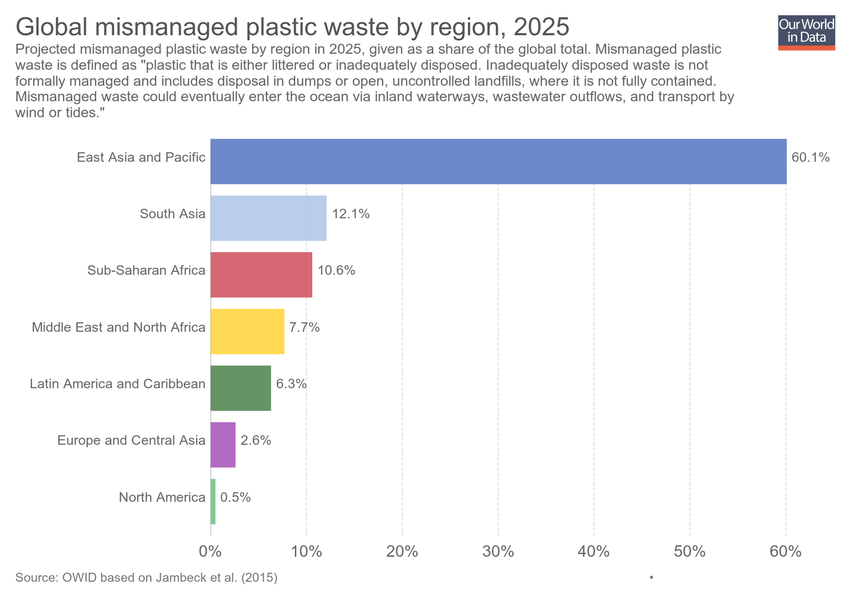
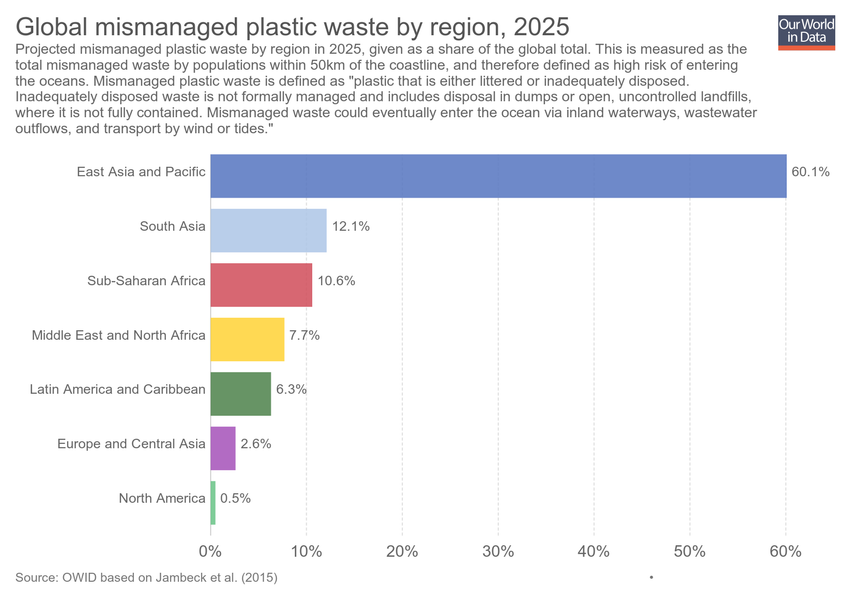
Updating chart mismanaged-plastic-waste-by-region-2025

diff --git a/grapher/mismanaged-plastic-waste-by-region-2025.html b/grapher/mismanaged-plastic-waste-by-region-2025.html
@@ -1,4 +1,4 @@
-<!doctype html><html><head><meta name="viewport" content="width=device-width, initial-scale=1" /><title>Global mismanaged plastic waste by region, 2025 - Our World in Data</title><meta name="description" content="Projected mismanaged plastic waste by region in 2025, given as a share of the global total. Mismanaged plastic waste is defined as &quot;plastic that is either littered or inadequately disposed. Inadequately disposed waste is not formally managed and includes disposal in dumps or open, uncontrolled landfills, where it is not fully contained. Mismanaged waste could eventually enter the ocean via inland waterways, wastewater outflows, and transport by wind or tides.&quot;" /><link rel="canonical" href="https://ourworldindata.org/grapher/mismanaged-plastic-waste-by-region-2025" /><meta property="fb:app_id" content="1149943818390250" /><meta property="og:url" content="https://ourworldindata.org/grapher/mismanaged-plastic-waste-by-region-2025" /><meta property="og:title" content="Global mismanaged plastic waste by region, 2025" /><meta property="og:description" content="Projected mismanaged plastic waste by region in 2025, given as a share of the global total. Mismanaged plastic waste is defined as &quot;plastic that is either littered or inadequately disposed. Inadequately disposed waste is not formally managed and includes disposal in dumps or open, uncontrolled landfills, where it is not fully contained. Mismanaged waste could eventually enter the ocean via inland waterways, wastewater outflows, and transport by wind or tides.&quot;" /><meta property="og:image" content="https://ourworldindata.org/grapher/exports/mismanaged-plastic-waste-by-region-2025.png?v=2" /><meta property="og:image:width" content="850" /><meta property="og:image:height" content="600" /><meta property="og:site_name" content="Our World in Data" /><meta name="twitter:card" content="summary_large_image" /><meta name="twitter:site" content="@OurWorldInData" /><meta name="twitter:creator" content="@OurWorldInData" /><meta name="twitter:title" content="Global mismanaged plastic waste by region, 2025" /><meta name="twitter:description" content="Projected mismanaged plastic waste by region in 2025, given as a share of the global total. Mismanaged plastic waste is defined as &quot;plastic that is either littered or inadequately disposed. Inadequately disposed waste is not formally managed and includes disposal in dumps or open, uncontrolled landfills, where it is not fully contained. Mismanaged waste could eventually enter the ocean via inland waterways, wastewater outflows, and transport by wind or tides.&quot;" /><meta name="twitter:image" content="https://ourworldindata.org/grapher/exports/mismanaged-plastic-waste-by-region-2025.png?v=2" /><style>
+<!doctype html><html><head><meta name="viewport" content="width=device-width, initial-scale=1" /><title>Global mismanaged plastic waste by region, 2025 - Our World in Data</title><meta name="description" content="Projected mismanaged plastic waste by region in 2025, given as a share of the global total. This is measured as the total mismanaged waste by populations within 50km of the coastline, and therefore defined as high risk of entering the oceans. Mismanaged plastic waste is defined as &quot;plastic that is either littered or inadequately disposed. Inadequately disposed waste is not formally managed and includes disposal in dumps or open, uncontrolled landfills, where it is not fully contained. Mismanaged waste could eventually enter the ocean via inland waterways, wastewater outflows, and transport by wind or tides.&quot;" /><link rel="canonical" href="https://ourworldindata.org/grapher/mismanaged-plastic-waste-by-region-2025" /><meta property="fb:app_id" content="1149943818390250" /><meta property="og:url" content="https://ourworldindata.org/grapher/mismanaged-plastic-waste-by-region-2025" /><meta property="og:title" content="Global mismanaged plastic waste by region, 2025" /><meta property="og:description" content="Projected mismanaged plastic waste by region in 2025, given as a share of the global total. This is measured as the total mismanaged waste by populations within 50km of the coastline, and therefore defined as high risk of entering the oceans. Mismanaged plastic waste is defined as &quot;plastic that is either littered or inadequately disposed. Inadequately disposed waste is not formally managed and includes disposal in dumps or open, uncontrolled landfills, where it is not fully contained. Mismanaged waste could eventually enter the ocean via inland waterways, wastewater outflows, and transport by wind or tides.&quot;" /><meta property="og:image" content="https://ourworldindata.org/grapher/exports/mismanaged-plastic-waste-by-region-2025.png?v=3" /><meta property="og:image:width" content="850" /><meta property="og:image:height" content="600" /><meta property="og:site_name" content="Our World in Data" /><meta name="twitter:card" content="summary_large_image" /><meta name="twitter:site" content="@OurWorldInData" /><meta name="twitter:creator" content="@OurWorldInData" /><meta name="twitter:title" content="Global mismanaged plastic waste by region, 2025" /><meta name="twitter:description" content="Projected mismanaged plastic waste by region in 2025, given as a share of the global total. This is measured as the total mismanaged waste by populations within 50km of the coastline, and therefore defined as high risk of entering the oceans. Mismanaged plastic waste is defined as &quot;plastic that is either littered or inadequately disposed. Inadequately disposed waste is not formally managed and includes disposal in dumps or open, uncontrolled landfills, where it is not fully contained. Mismanaged waste could eventually enter the ocean via inland waterways, wastewater outflows, and transport by wind or tides.&quot;" /><meta name="twitter:image" content="https://ourworldindata.org/grapher/exports/mismanaged-plastic-waste-by-region-2025.png?v=3" /><style>
         html, body {
             height: 100%;
             margin: 0;
@@ -20,8 +20,8 @@
         }
     </style><noscript><style>
                     figure { display: none !important; }
-                </style></noscript><link rel="stylesheet" href="https://ourworldindata.org/grapher/assets/commons.bundle.7bc7a3a90f15cac09df5.css" /><link rel="preload" href="/grapher/data/variables/97671.json?v=2" as="fetch" crossorigin /></head><body class="singleChart"><figure data-grapher-src="/grapher/mismanaged-plastic-waste-by-region-2025"></figure><noscript id="fallback"><img src="/grapher/exports/mismanaged-plastic-waste-by-region-2025.svg" /><p>Interactive visualization requires JavaScript</p></noscript><script src="https://cdn.polyfill.io/v2/polyfill.min.js?features=es6,fetch"></script><script src="https://ourworldindata.org/grapher/assets/commons.bundle.7bc7a3a90f15cac09df5.js"></script><script src="https://ourworldindata.org/grapher/assets/charts.bundle.7bc7a3a90f15cac09df5.js"></script><script>
-        var jsonConfig = {"id":2877,"map":{"projection":"World","colorSchemeLabels":[],"colorSchemeValues":[],"customNumericColors":[],"customCategoryColors":{},"customCategoryLabels":{},"customHiddenCategories":{}},"tab":"chart","slug":"mismanaged-plastic-waste-by-region-2025","type":"DiscreteBar","title":"Global mismanaged plastic waste by region, 2025","xAxis":{"scaleType":"linear"},"yAxis":{"min":0,"scaleType":"linear"},"version":2,"subtitle":"Projected mismanaged plastic waste by region in 2025, given as a share of the global total. Mismanaged plastic waste is defined as \"plastic that is either littered or inadequately disposed. Inadequately disposed waste is not formally managed and includes disposal in dumps or open, uncontrolled landfills, where it is not fully contained. Mismanaged waste could eventually enter the ocean via inland waterways, wastewater outflows, and transport by wind or tides.\"","hasMapTab":false,"stackMode":"absolute","dimensions":[{"display":{},"property":"y","variableId":97671}],"sourceDesc":"OWID based on Jambeck et al. (2015)","hasChartTab":true,"isPublished":true,"selectedData":[{"index":0,"entityId":342},{"index":0,"entityId":300},{"index":0,"entityId":34620},{"index":0,"entityId":301},{"index":0,"entityId":294},{"index":0,"entityId":302},{"index":0,"entityId":289}],"addCountryMode":"disabled","baseColorScheme":"continents","invertColorScheme":true,"hideTitleAnnotation":true};
+                </style></noscript><link rel="stylesheet" href="https://ourworldindata.org/grapher/assets/commons.bundle.7bc7a3a90f15cac09df5.css" /><link rel="preload" href="/grapher/data/variables/97671.json?v=3" as="fetch" crossorigin /></head><body class="singleChart"><figure data-grapher-src="/grapher/mismanaged-plastic-waste-by-region-2025"></figure><noscript id="fallback"><img src="/grapher/exports/mismanaged-plastic-waste-by-region-2025.svg" /><p>Interactive visualization requires JavaScript</p></noscript><script src="https://cdn.polyfill.io/v2/polyfill.min.js?features=es6,fetch"></script><script src="https://ourworldindata.org/grapher/assets/commons.bundle.7bc7a3a90f15cac09df5.js"></script><script src="https://ourworldindata.org/grapher/assets/charts.bundle.7bc7a3a90f15cac09df5.js"></script><script>
+        var jsonConfig = {"id":2877,"map":{"projection":"World","colorSchemeLabels":[],"colorSchemeValues":[],"customNumericColors":[],"customCategoryColors":{},"customCategoryLabels":{},"customHiddenCategories":{}},"tab":"chart","slug":"mismanaged-plastic-waste-by-region-2025","type":"DiscreteBar","title":"Global mismanaged plastic waste by region, 2025","xAxis":{"scaleType":"linear"},"yAxis":{"min":0,"scaleType":"linear"},"version":3,"subtitle":"Projected mismanaged plastic waste by region in 2025, given as a share of the global total. This is measured as the total mismanaged waste by populations within 50km of the coastline, and therefore defined as high risk of entering the oceans. Mismanaged plastic waste is defined as \"plastic that is either littered or inadequately disposed. Inadequately disposed waste is not formally managed and includes disposal in dumps or open, uncontrolled landfills, where it is not fully contained. Mismanaged waste could eventually enter the ocean via inland waterways, wastewater outflows, and transport by wind or tides.\"","hasMapTab":false,"stackMode":"absolute","dimensions":[{"display":{},"property":"y","variableId":97671}],"sourceDesc":"OWID based on Jambeck et al. (2015)","hasChartTab":true,"isPublished":true,"selectedData":[{"index":0,"entityId":342},{"index":0,"entityId":300},{"index":0,"entityId":34620},{"index":0,"entityId":301},{"index":0,"entityId":294},{"index":0,"entityId":302},{"index":0,"entityId":289}],"addCountryMode":"disabled","baseColorScheme":"continents","invertColorScheme":true,"hideTitleAnnotation":true};
         var figure = document.getElementsByTagName("figure")[0];
         try {
             window.App = {};
